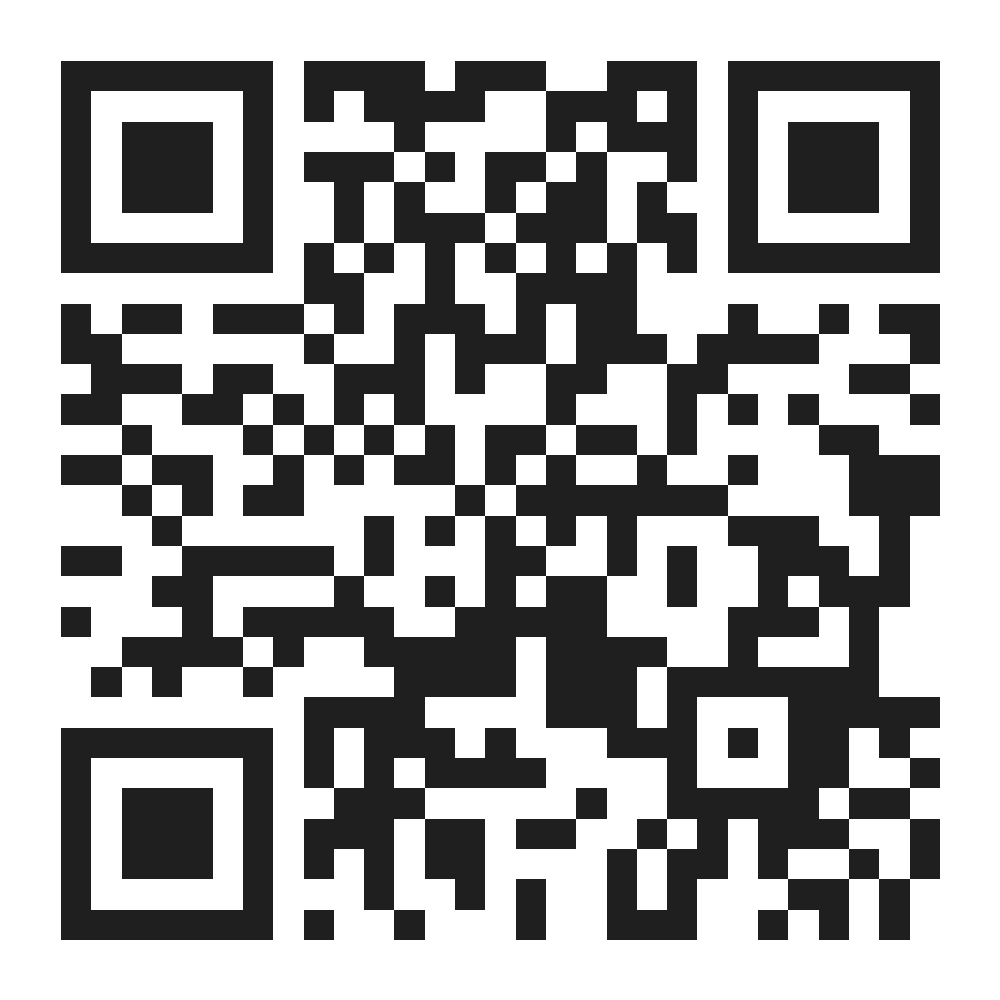
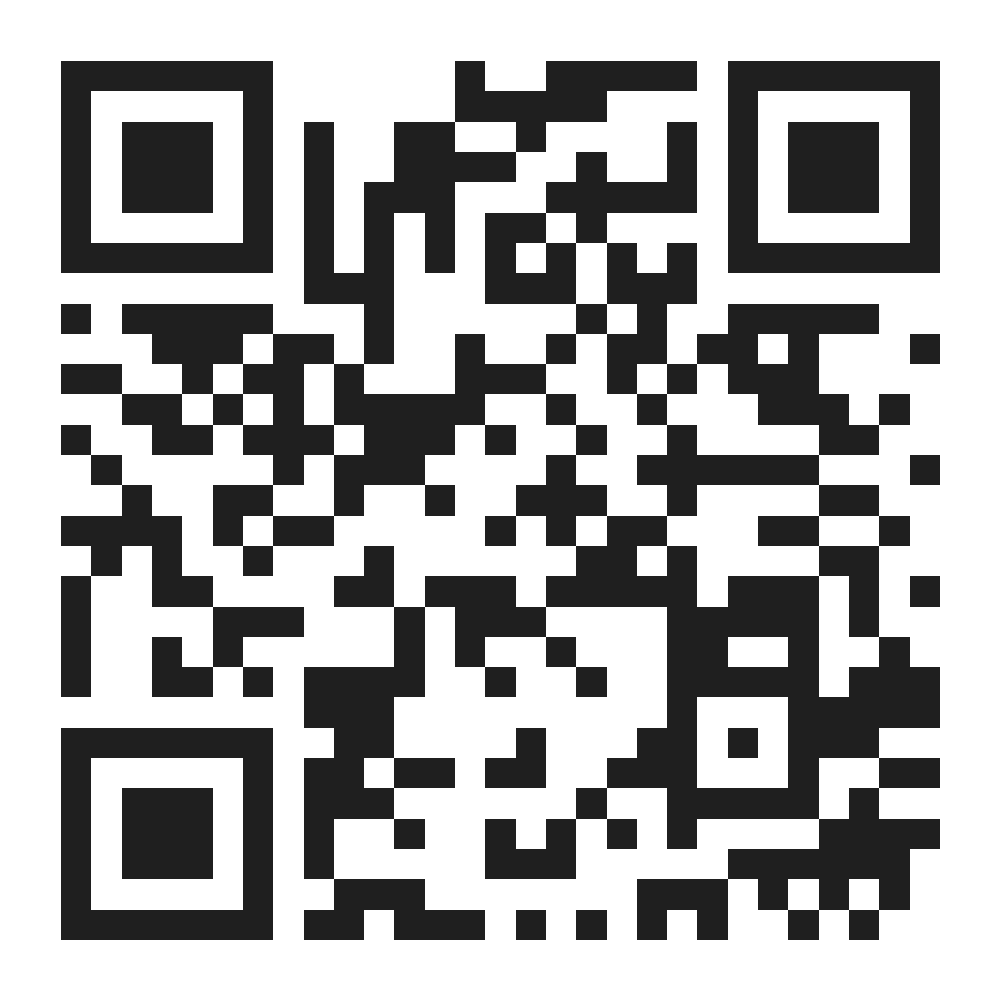
modificacion de estilos

Changed region(s): [[0.062, 0.062, 0.961, 0.961]]

diff --git a/src/components/CheckoutPanel.jsx b/src/components/CheckoutPanel.jsx
@@ -17,34 +17,35 @@ export default function CheckoutPanel({
   const [clienteNombre, setClienteNombre] = useState("");
   const [yapeOperacion, setYapeOperacion] = useState("");
   const [cargando, setCargando] = useState(false);
-  const [mensajeError, setMensajeError] = useState("");
+  const [nombreError, setNombreError] = useState("");
+  const [yapeError, setYapeError] = useState("");
   const [mensajeExito, setMensajeExito] = useState("");
 
   const confirmarPedido = async () => {
-  setMensajeError("");
+  setNombreError("");
+  setYapeError("");
   setMensajeExito("");
 
   const nombreLimpio = clienteNombre.trim();
   const operacionLimpia = yapeOperacion.trim();
   const totalPedido = Number(total);
 
-  if (!nombreLimpio) {
-    setMensajeError("Ingresa tu nombre para identificar tu pedido.");
-    return;
-  }
 
-  if (!operacionLimpia) {
-    setMensajeError("Ingresa el ID de operación de Yape.");
-    return;
+  let hayError = false;
+  if (!nombreLimpio) {
+    setNombreError("Ingresa tu nombre para identificar tu pedido.");
+    hayError = true;
   }
+  if (!operacionLimpia) {
+    setYapeError("Ingresa el ID de operación de Yape.");
+    hayError = true;
+  }
+  if (hayError) return;
 
   if (itemsPedido.length === 0) {
-    setMensajeError("Agrega productos antes de confirmar el pedido.");
     return;
   }
-
   if (!totalPedido || totalPedido <= 0) {
-    setMensajeError("El total del pedido no es válido.");
     return;
   }
 
@@ -80,11 +81,7 @@ export default function CheckoutPanel({
     router.push(`/pedido/${respuesta.pedidoId}`);
   } catch (error) {
     console.error("Error al crear pedido:", error);
-
-    setMensajeError(
-      error.message ||
-        "No pudimos registrar tu pedido. Verifica tu conexión e inténtalo nuevamente."
-    );
+    // Podrías mostrar un error general si lo deseas, pero según la indicación, solo errores de inputs
   } finally {
     setCargando(false);
   }
@@ -169,28 +166,37 @@ export default function CheckoutPanel({
           <label className="text-sm font-black text-pedido-gray">
             Nombre del cliente <span className="text-red-700">*</span>
           </label>
-
           <input
             type="text"
             value={clienteNombre}
-            onChange={(e) => setClienteNombre(e.target.value)}
+            onChange={(e) => {
+              setClienteNombre(e.target.value);
+              if (nombreError) setNombreError("");
+            }}
             placeholder="Ejemplo: María López"
             className="mt-2 w-full rounded-2xl border border-gray-200 px-4 py-3 outline-none cafe-input"
           />
+          {nombreError && (
+            <div className="mt-2 text-xs text-red-700 font-bold">{nombreError}</div>
+          )}
         </div>
-
         <div className="mt-5">
           <label className="text-sm font-black cafe-subtitle">
             ID de operación Yape <span className="text-red-700">*</span>
           </label>
-
           <input
             type="text"
             value={yapeOperacion}
-            onChange={(e) => setYapeOperacion(e.target.value)}
+            onChange={(e) => {
+              setYapeOperacion(e.target.value);
+              if (yapeError) setYapeError("");
+            }}
             placeholder="Ejemplo: 84592136"
             className="mt-2 w-full rounded-2xl border border-gray-200 px-4 py-3 outline-none focus:border-red-700"
           />
+          {yapeError && (
+            <div className="mt-2 text-xs text-red-700 font-bold">{yapeError}</div>
+          )}
         </div>
       </div>
 
@@ -206,11 +212,7 @@ export default function CheckoutPanel({
         >
           {cargando ? "Enviando..." : "Confirmar"}
         </button>
-        {mensajeError && (
-         <div className="mt-4 rounded-2xl border border-red-200 border-none px-2 py-3 text-sm text-center font-bold text-red-700">
-          * {mensajeError}
-         </div>
-         )}
+        {/* Errores específicos de inputs ahora se muestran debajo de cada input */}
 
         {mensajeExito && (
          <div className="mt-5 rounded-2xl border border-green-200 bg-green-50 px-4 py-3 text-sm font-bold text-green-700">

diff --git a/scripts/generarQR.js b/scripts/generarQR.js
@@ -1,7 +1,7 @@
 import QRCode from "qrcode";
 import path from "path";
 
-const urlMenu = "https://pedido.tonav-tech.online";
+const urlMenu = "https://cafe-express.tonav-tech.online";
 
 const outputPath = path.join(process.cwd(), "public", "qr-menu.png");
 
